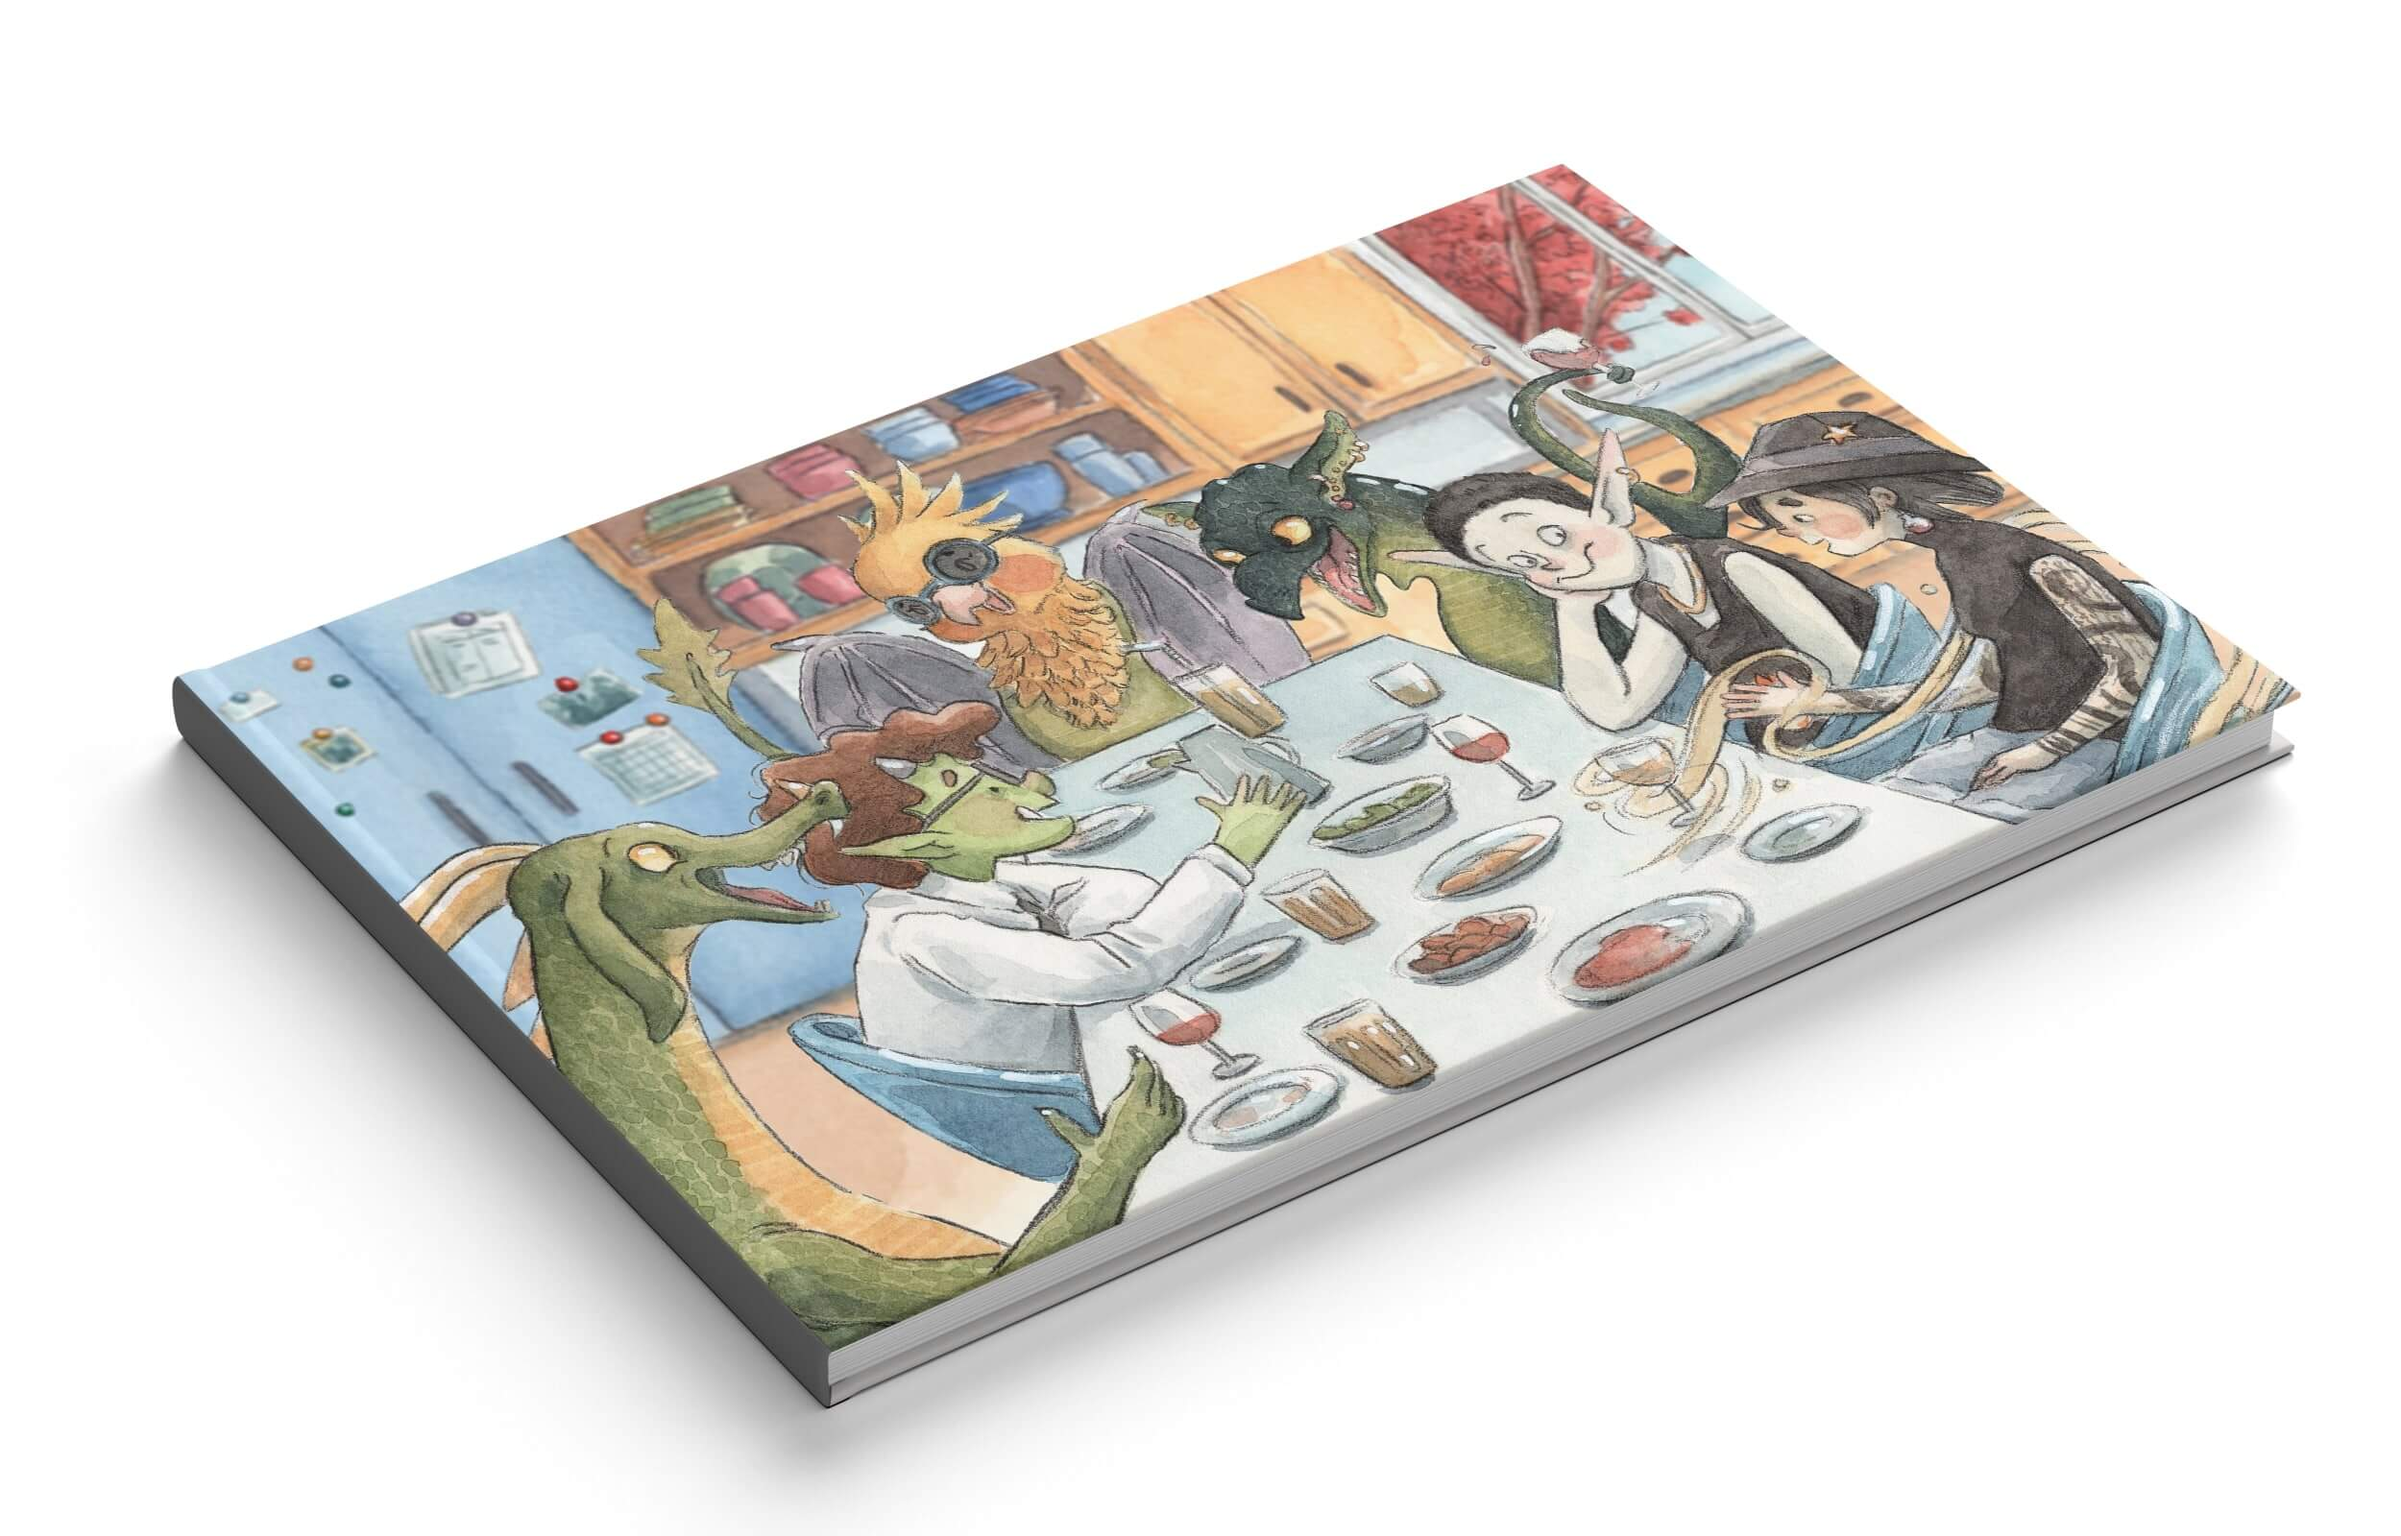
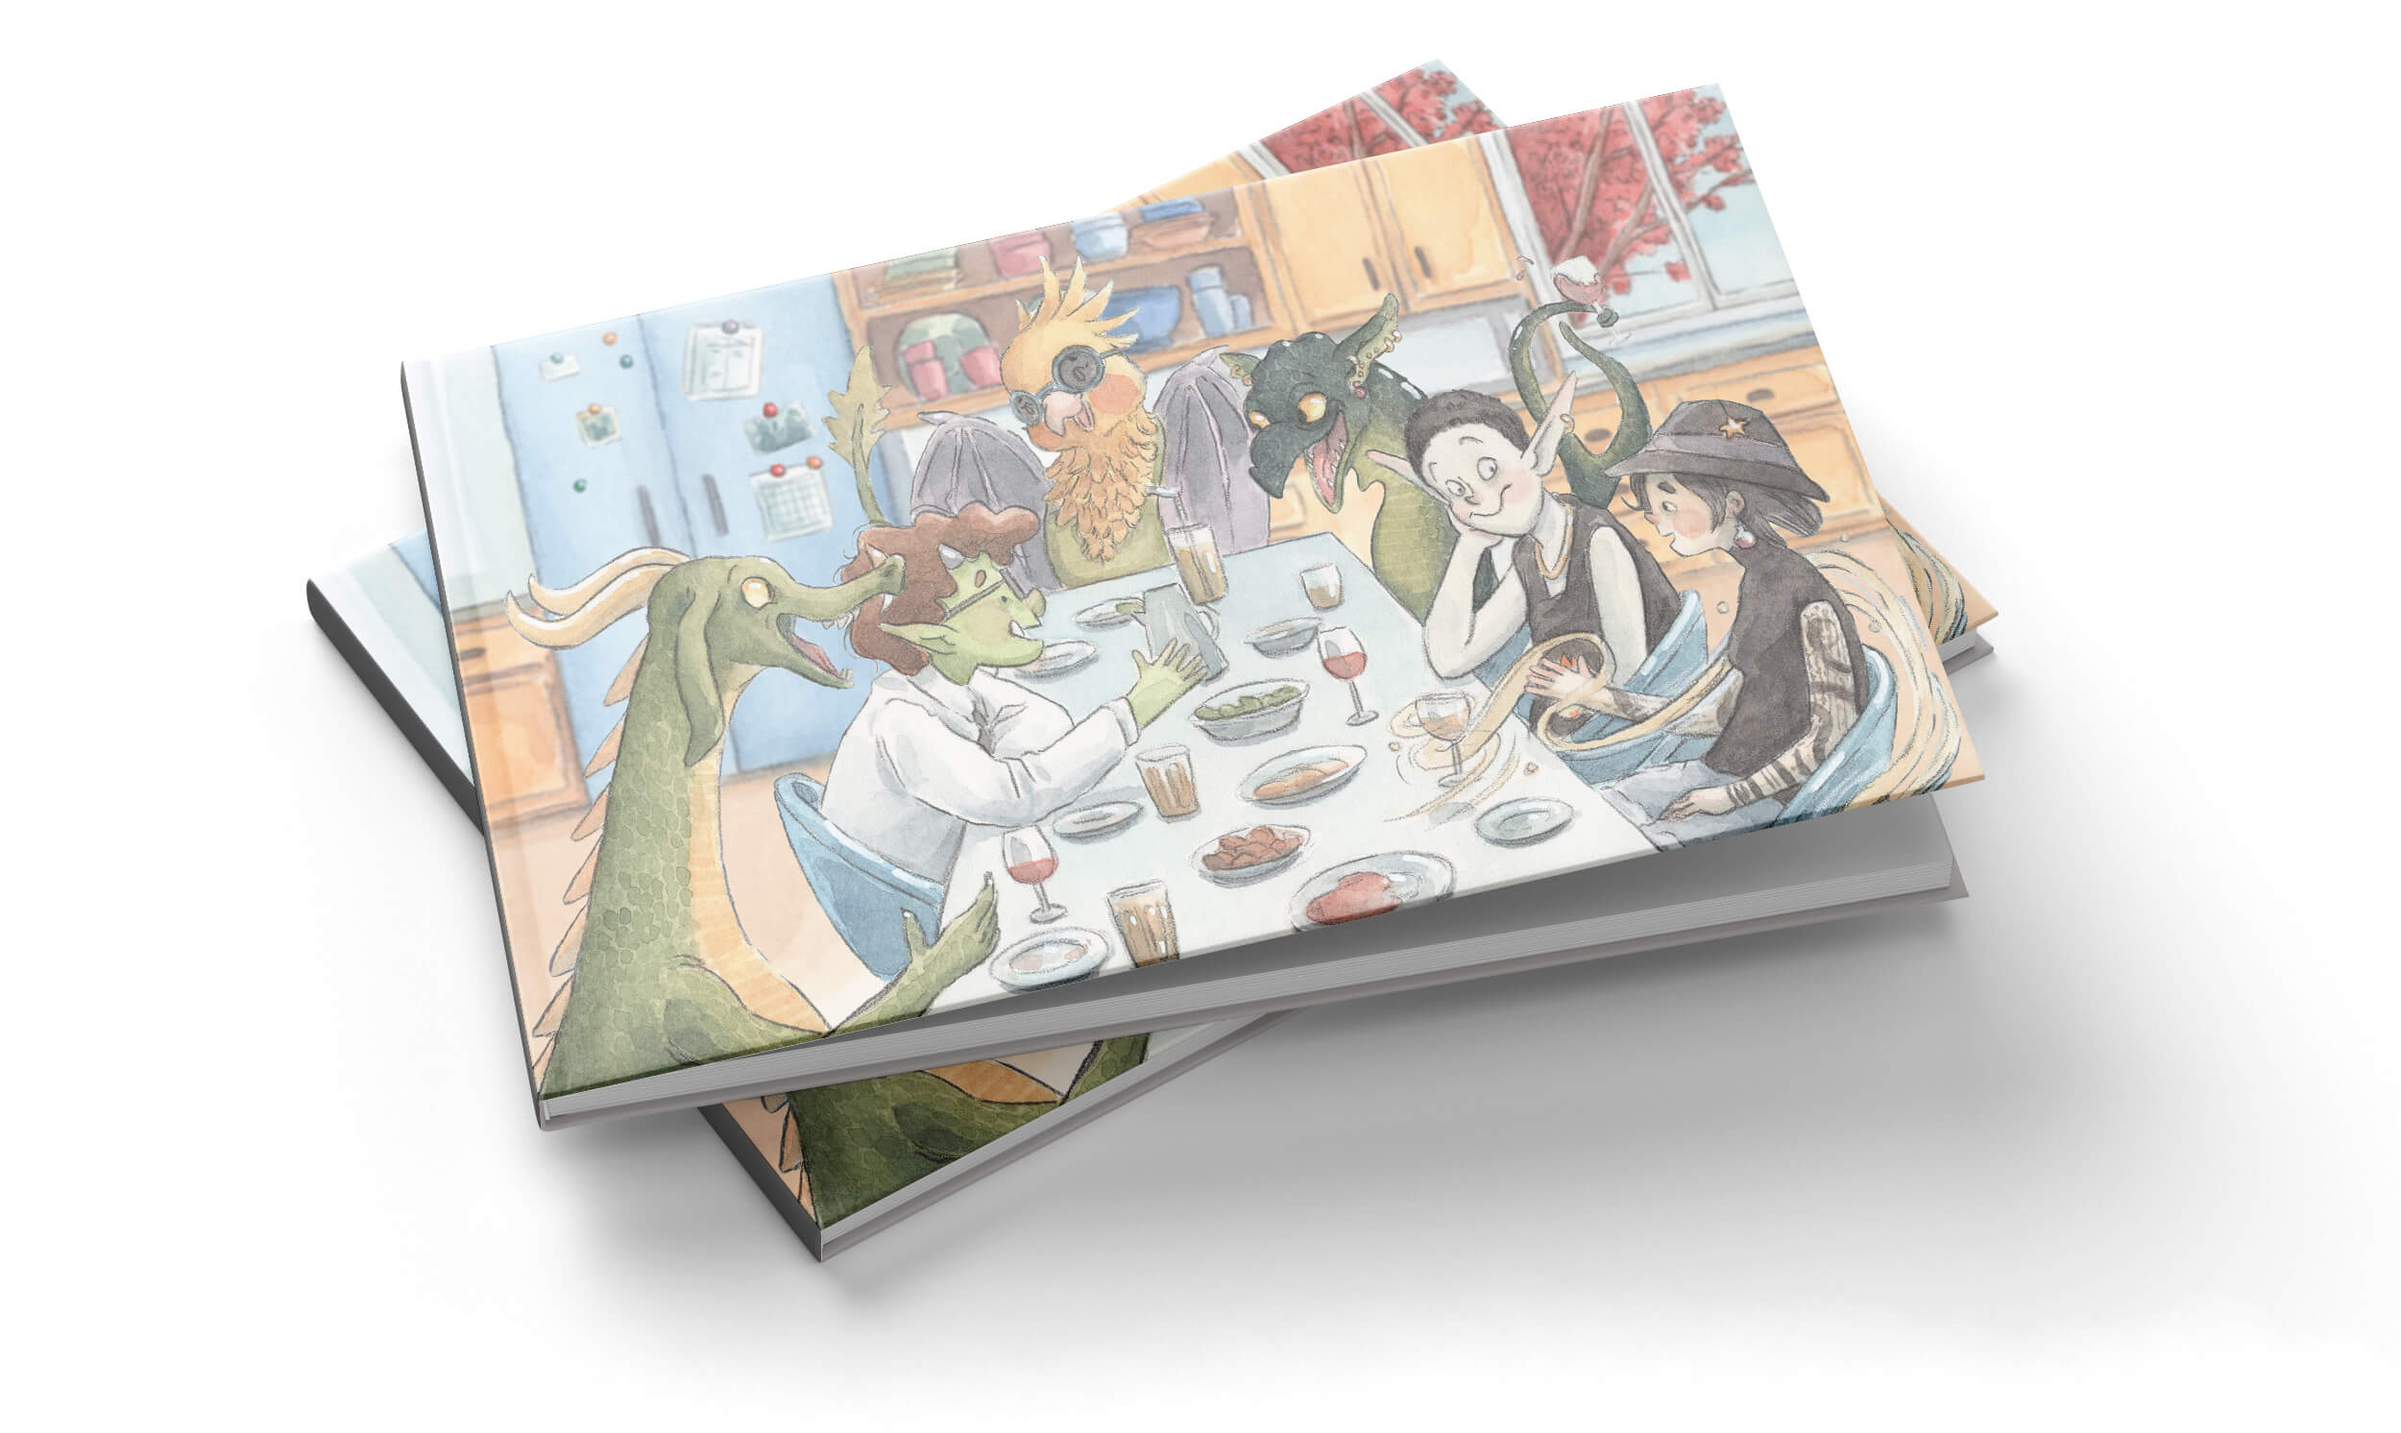
new artbook image

diff --git a/src/components/Navbar/Navbar.js b/src/components/Navbar/Navbar.js
@@ -117,7 +117,7 @@ export const NavbarMain = (props) => {
             <ShootingStar className="leftStar" isActive={visible} orientation="up" delay="4"/>
             <ShootingStar className="leftStar" isActive={visible} orientation="down" delay="6"/>
             <EmailForm hideTitle={false} isActiveAndDesktop={isActiveAndDesktop}/>
-            <img className="artbookMockup" src="/images/artbook/mockup2.jpg" alt={t('artbook page.description')}></img>
+            <img className="artbookMockup" src="/images/artbook/mockup1.jpg" alt={t('artbook page.description')}></img>
           </div>
         </div>
       </div>
